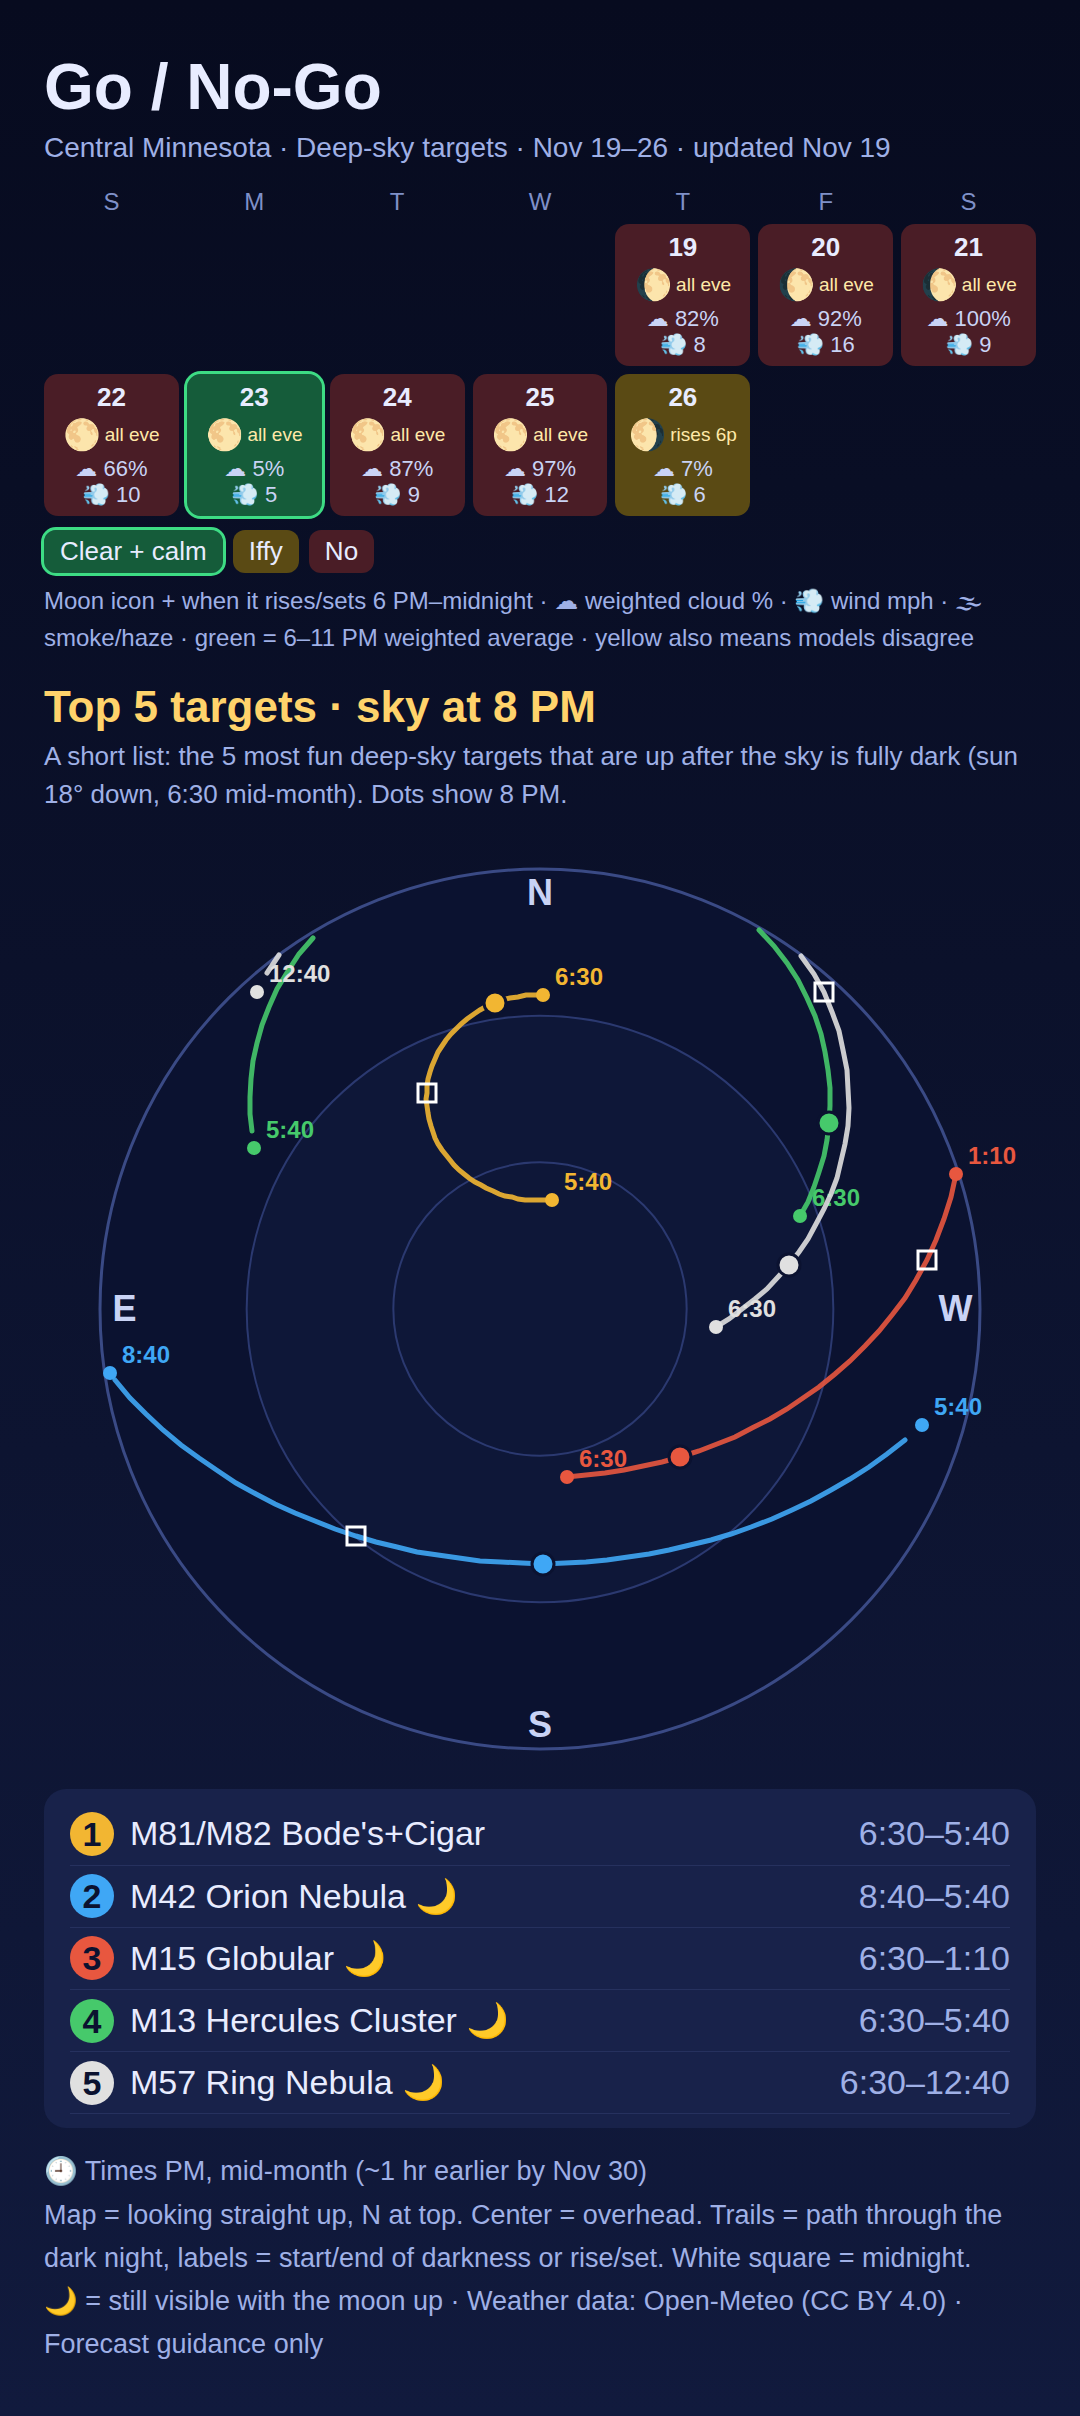
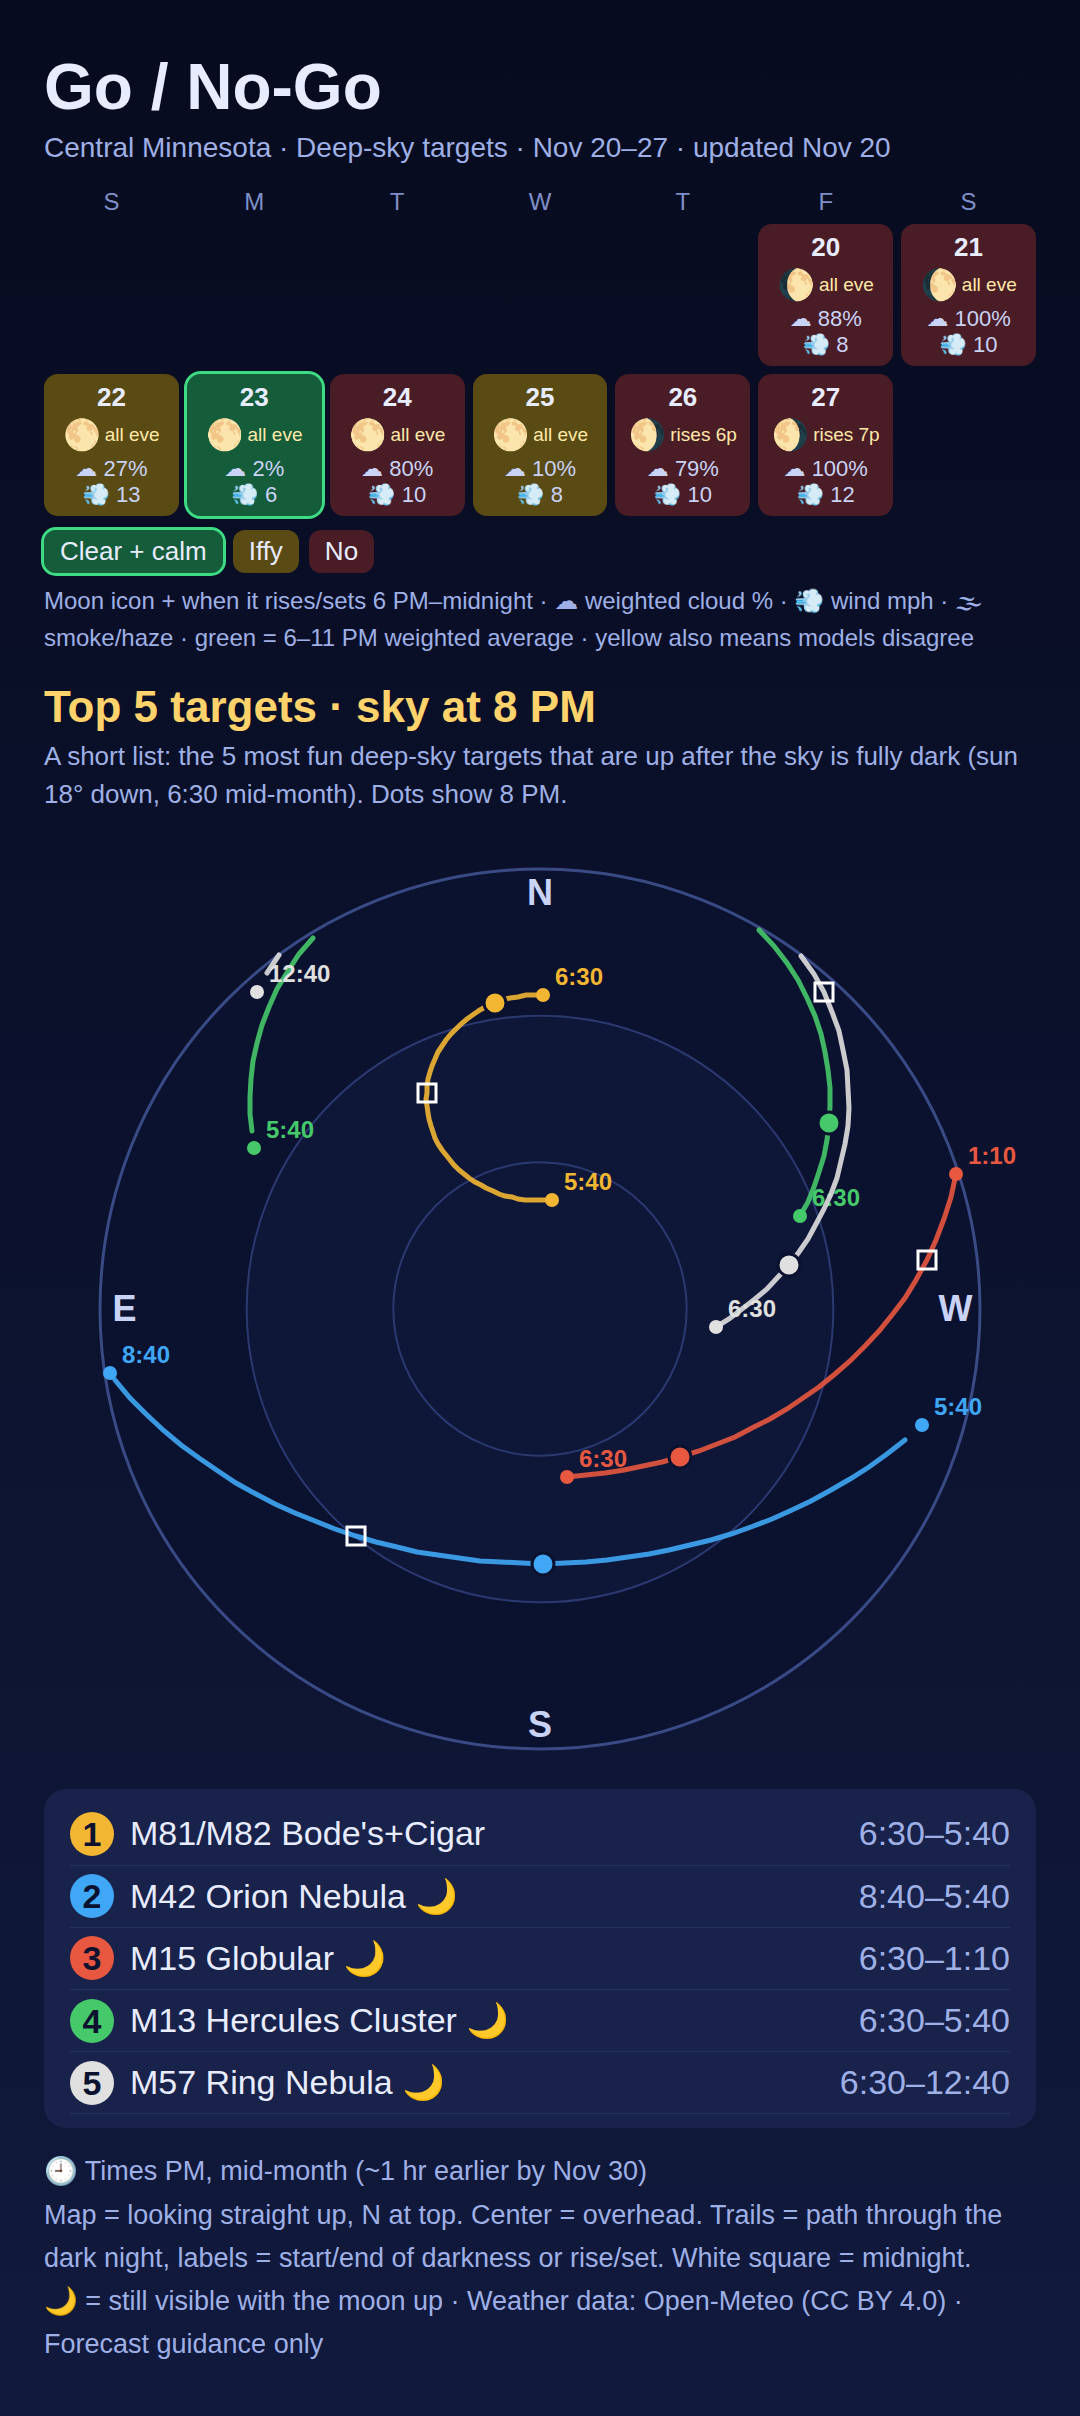
Update stargazing forecast (Nov 20)

diff --git a/_includes/forecast_status.html b/_includes/forecast_status.html
@@ -1,2 +1,2 @@
-<p class="notice--info"><strong>Forecast updated Nov 19:</strong> Next good night: Mon Nov 23 (low confidence) (models disagree): M15 Globular, 6:30 pm-9:40 pm (clear 5.5h, longest 6:30 pm-12:00 am, low 23F)</p>
+<p class="notice--info"><strong>Forecast updated Nov 20:</strong> Next good night: Mon Nov 23 (low confidence): M15 Globular, 6:30 pm-9:40 pm (clear 5.5h, longest 6:30 pm-12:00 am, low 21F)</p>
 <p class="small">Weather data: <a href="https://open-meteo.com/">Open-Meteo</a> (CC BY 4.0). Forecast guidance only — check the sky before heading out.</p>

diff --git a/_posts/1900-01-01-about.md b/_posts/1900-01-01-about.md
@@ -1,6 +1,6 @@
 ---
 title: Coming up
-date: 2026-11-19
+date: 2026-11-20
 header:
   teaser: /images/month.png
 ---
